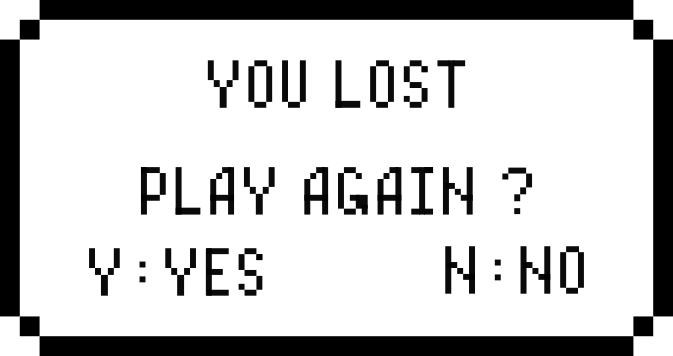
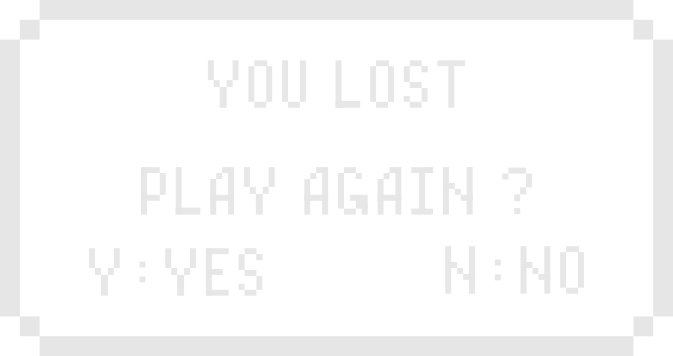
fixed problem with some images

diff --git a/main.py b/main.py
@@ -63,7 +63,7 @@ imgMirando2 = pygame.image.load('imagenes\sprites\mirando2.png').convert_alpha()
 
 imgPlataforma = pygame.image.load('imagenes\plataforma.png').convert_alpha()
 
-imgPlayAgain = pygame.image.load('imagenes\mensaje perdido 1.png').convert_alpha()
+imgPlayAgain = pygame.image.load('imagenes\mensaje perdido.png').convert_alpha()
 imgPlayAgain = pygame.transform.scale(imgPlayAgain, (510, 270))
 
 letraPlayAgain = pygame.image.load('imagenes\play again.png').convert_alpha()
@@ -231,7 +231,7 @@ class personaje(object):
             self.contador += 1
             if self.contador >= 4:
                 self.index += 1
-                self.contador = 0 
+                self.contador = 0
         
         elif self.debecaminar:
             self.animacion_caminando.draw(win, \
@@ -244,7 +244,7 @@ class personaje(object):
                 self.contador_caminando = 0
         
         elif self.debe_mirar:
-            if self.frames_mirando < 5:
+            if self.frames_mirando < 10:
                 win.blit(imgMirando1, (self.x + 18 + self.handle[4][0], self.y + self.handle[4][1] + 14))
                 self.frames_mirando += 1
             else:
